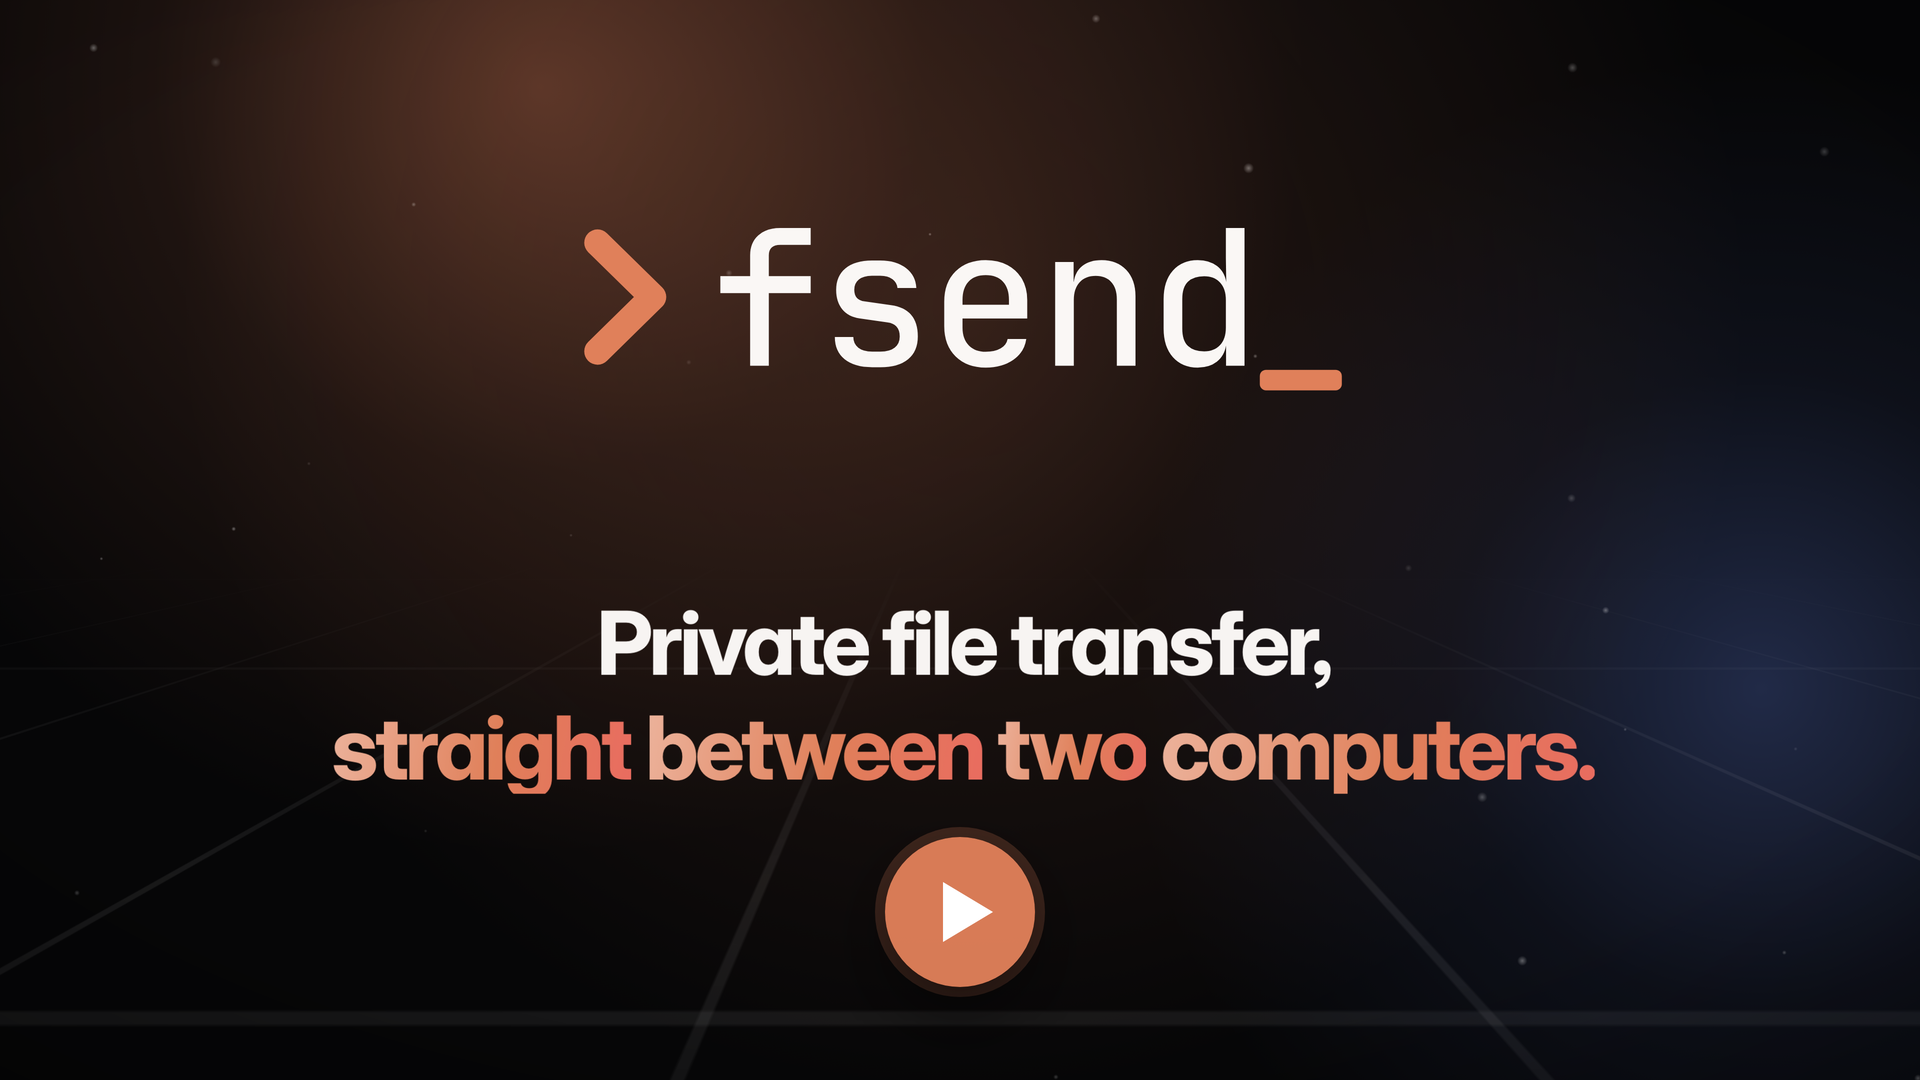
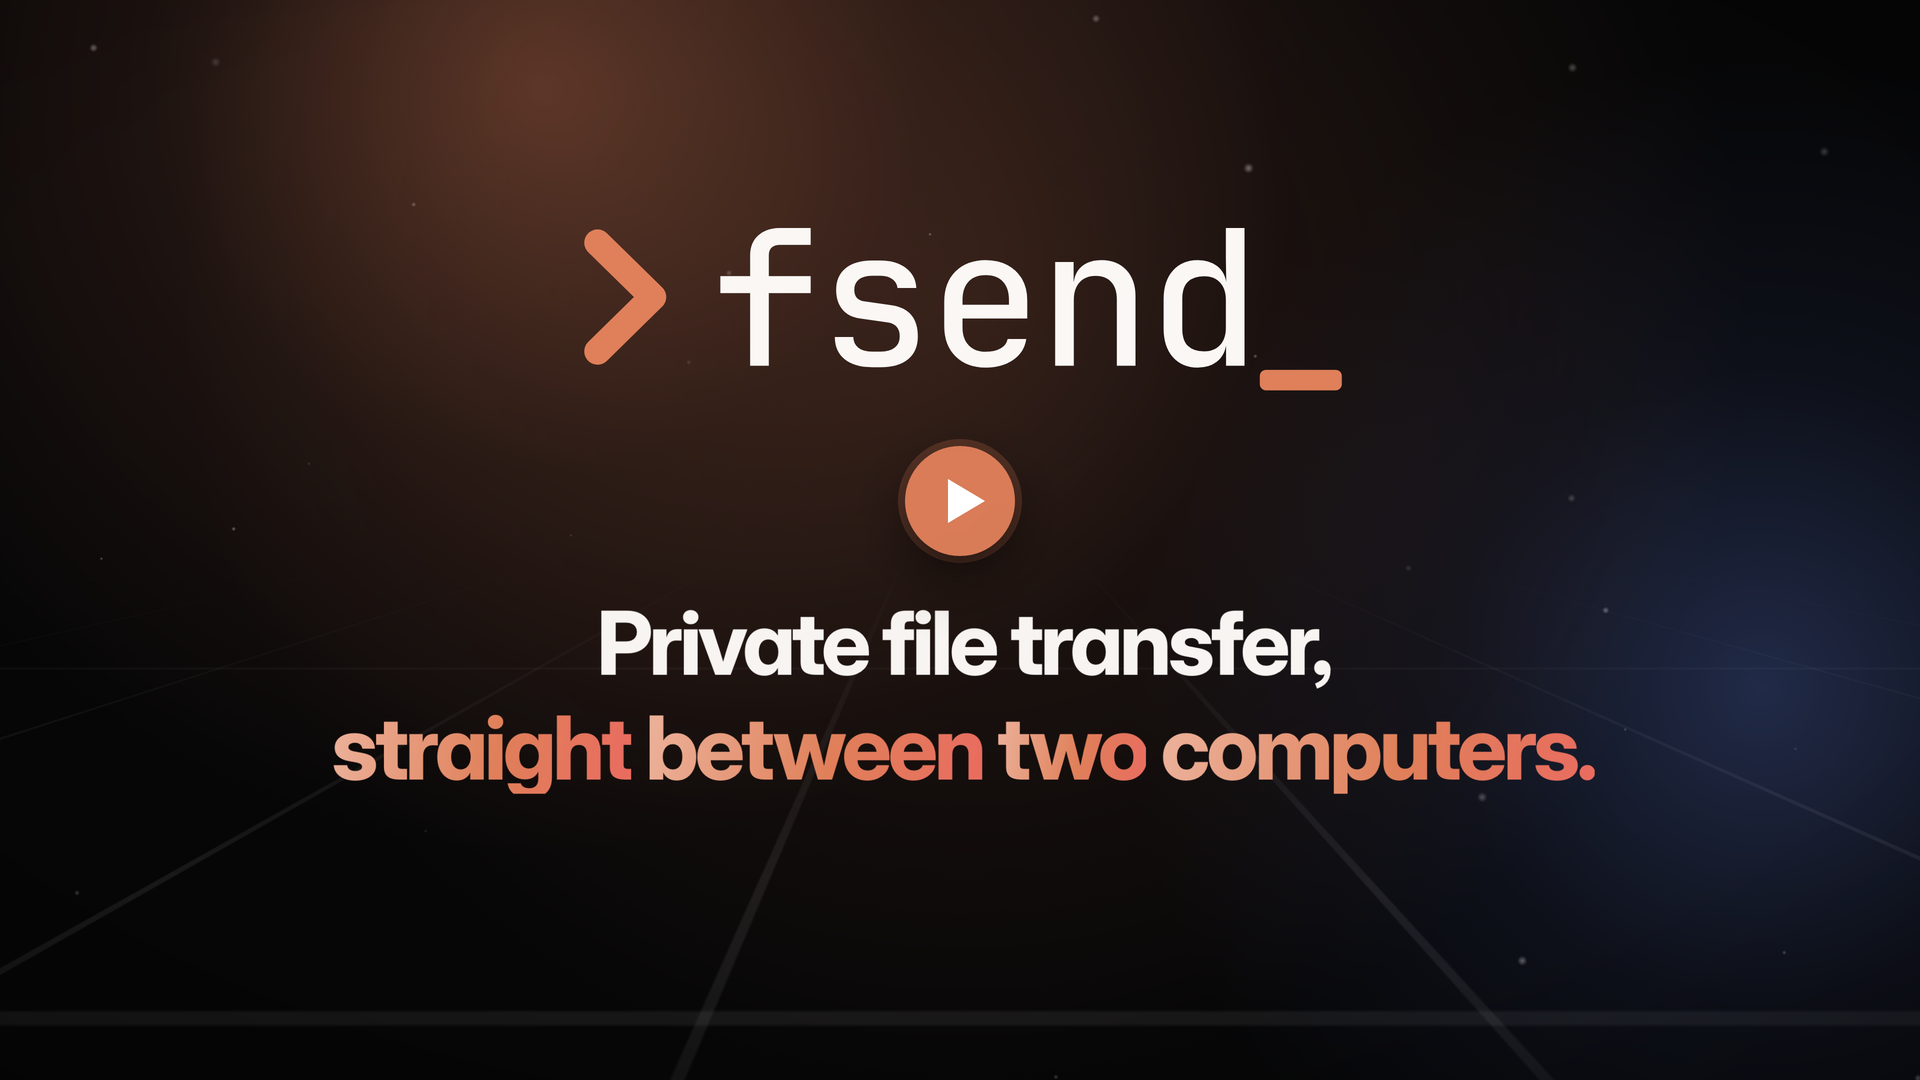
docs: tighten the README and move the video's play button off the bottom edge
- Why fsend: ten bullets down to six. Direct transfer and network setup
  merge, the post-quantum exchange joins encryption, skip-unchanged joins
  resume, and "one receiver per code" is left to security.md and usage.md.
- Install: the release-integrity paragraph becomes one line linking to
  Security -> Release integrity.
- Examples: both blocks open with the plain command (fsend backup.zip,
  fsend abc-defg-jkm).
- How it works: a caption says what the video covers, that it plays in
  the browser, and links to Architecture.
- Comparison moves into the Documentation table; MIT links to LICENSE.
- Thumbnail: the play button shrinks from 150px to 110px and sits between
  the wordmark and the tagline; dead center would cover the tagline.

Changed region(s): [[0.4375, 0.7639, 0.5625, 0.9167], [0.4688, 0.3972, 0.5312, 0.5194]]

diff --git a/scripts/explainer/web/style.css b/scripts/explainer/web/style.css
@@ -235,11 +235,11 @@ html, body {
 
 /* ---- poster affordance (README thumbnail only, never in the video) ------- */
 #poster-play {
-  position: absolute; left: 50%; top: 912px; width: 150px; height: 150px; margin: -75px 0 0 -75px; z-index: 1000;
+  position: absolute; left: 50%; top: 501px; width: 110px; height: 110px; margin: -55px 0 0 -55px; z-index: 1000;
   border-radius: 50%; background: rgba(224, 128, 90, 0.96);
-  box-shadow: 0 30px 80px -10px rgba(0,0,0,0.7), 0 0 0 10px rgba(224,128,90,0.22);
+  box-shadow: 0 22px 60px -8px rgba(0,0,0,0.7), 0 0 0 7px rgba(224,128,90,0.22);
 }
 #poster-play::after {
-  content: ""; position: absolute; left: 58px; top: 45px;
-  border-left: 50px solid #fff; border-top: 30px solid transparent; border-bottom: 30px solid transparent;
+  content: ""; position: absolute; left: 43px; top: 33px;
+  border-left: 37px solid #fff; border-top: 22px solid transparent; border-bottom: 22px solid transparent;
 }

diff --git a/README.md b/README.md
@@ -30,24 +30,19 @@
 possible. No account, no upload step, no ports to open — just two commands and a
 short share code.
 
-- **Direct by default** — on the same network or across NATs that can be
-  hole-punched, the bytes go straight from sender to receiver. A relay is used
-  only when a direct path can't be found.
+- **Direct, with no network setup** — on the same network or across NATs that
+  can be hole-punched, the bytes go straight from sender to receiver. When no
+  direct path exists, or a network blocks UDP, a relay over HTTPS (TCP 443)
+  takes over. Nothing to configure.
 - **End-to-end encrypted** — TLS 1.3 between the peers, authenticated by the
-  share code through a PAKE (CPace) bound to the TLS session. Even the
-  fallback relay only ever sees ciphertext.
-- **No network setup** — works behind NAT, and falls back to a relay over
-  HTTPS (TCP 443) when a network blocks UDP. Nothing to configure.
+  share code through a PAKE (CPace) bound to the TLS session, over a
+  post-quantum hybrid key exchange (X25519MLKEM768). Even the relay only ever
+  sees ciphertext.
 - **Send anything** — a file, a folder, several at once, a stdin stream, or a
   literal string.
-- **Resumable** — if a transfer drops, the next send picks up where it left off
-  instead of starting over.
-- **Skips what's there** — re-send a folder and only the new or changed files move.
-- **One receiver per code** — the first receiver to connect owns the
-  transfer; if it drops, only that device can resume it.
+- **Resumable** — if a transfer drops, the next send picks up where it left
+  off, and re-sending a folder moves only the new or changed files.
 - **Optional password** — gate any transfer with `--password`.
-- **PQ-hybrid key exchange** — X25519MLKEM768, required between peers, so
-  recorded transfers stay private against a future quantum computer.
 - **Runs anywhere** — one static binary for Linux, macOS, FreeBSD and Windows,
   on x86 and ARM. Self-host the pairing server if you like.
 
@@ -71,9 +66,7 @@ brew install polius/tap/fsend
 irm https://getfsend.alzina.dev/windows | iex
 ```
 
-Releases are signed (keyless Sigstore) and carry GitHub build attestations;
-the install script and `fsend --update` verify checksums, and the signature
-too when `cosign` is installed. See
+Releases are signed and verified on install — see
 [Security → Release integrity](docs/security.md#release-integrity).
 
 <details>
@@ -108,6 +101,7 @@ fsend completion powershell | Out-String | Invoke-Expression   # powershell
 Send a file, a folder, several at once, a stdin stream, or a literal string:
 
 ```bash
+fsend backup.zip                   # a single file
 fsend ./project                    # a whole folder
 fsend a.txt b.txt c.txt            # several files at once
 pg_dump mydb | fsend               # a stream from stdin
@@ -118,6 +112,7 @@ fsend backup.zip --password        # gated behind a password
 …and to receive:
 
 ```bash
+fsend abc-defg-jkm                    # save to the current folder
 fsend --yes abc-defg-jkm              # skip the confirmation prompt
 fsend --out ~/Downloads abc-defg-jkm  # save to a specific folder
 fsend --out - abc-defg-jkm | tar x    # stream to stdout (a folder arrives as tar)
@@ -132,6 +127,10 @@ fsend --out - abc-defg-jkm | tar x    # stream to stdout (a folder arrives as ta
   </a>
 </p>
 
+<p align="center"><em>One minute: pairing with a share code, then the local, direct and relay
+routes fsend races to move the bytes. Plays as an MP4 in your browser; prefer reading?
+See <a href="docs/architecture.md">Architecture</a>.</em></p>
+
 ## Documentation
 
 | | |
@@ -142,12 +141,7 @@ fsend --out - abc-defg-jkm | tar x    # stream to stdout (a folder arrives as ta
 | [Self-hosting](docs/self-hosting.md) | Run your own pairing server in three steps |
 | [Development](docs/development.md) | Build and test from source |
 | [Troubleshooting](docs/troubleshooting.md) | Common errors and what to do about them |
-
-## Comparison
-
-**[fsend vs croc vs magic-wormhole vs sendme vs LocalSend](docs/comparison.md)**
-— a side-by-side table on security, network, and tooling, plus the
-trade-offs.
+| [Comparison](docs/comparison.md) | fsend vs croc, magic-wormhole, sendme and LocalSend |
 
 ## Contributing
 
@@ -155,4 +149,4 @@ Bug reports and pull requests welcome — see [Development](docs/development.md)
 
 ## License
 
-MIT
+[MIT](LICENSE)
